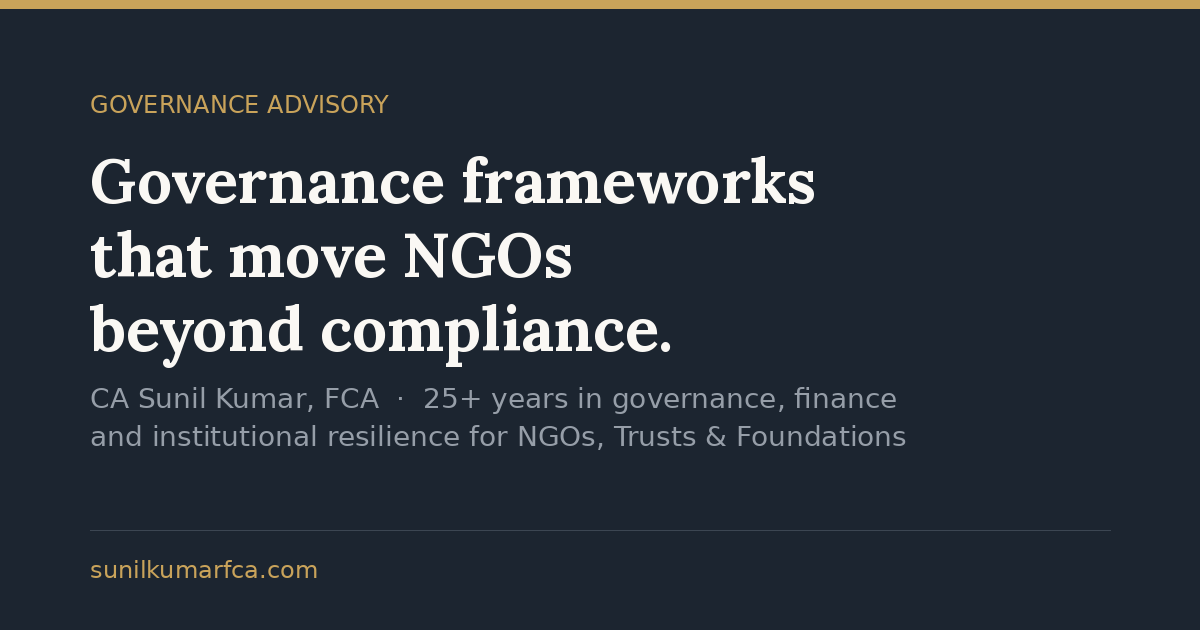
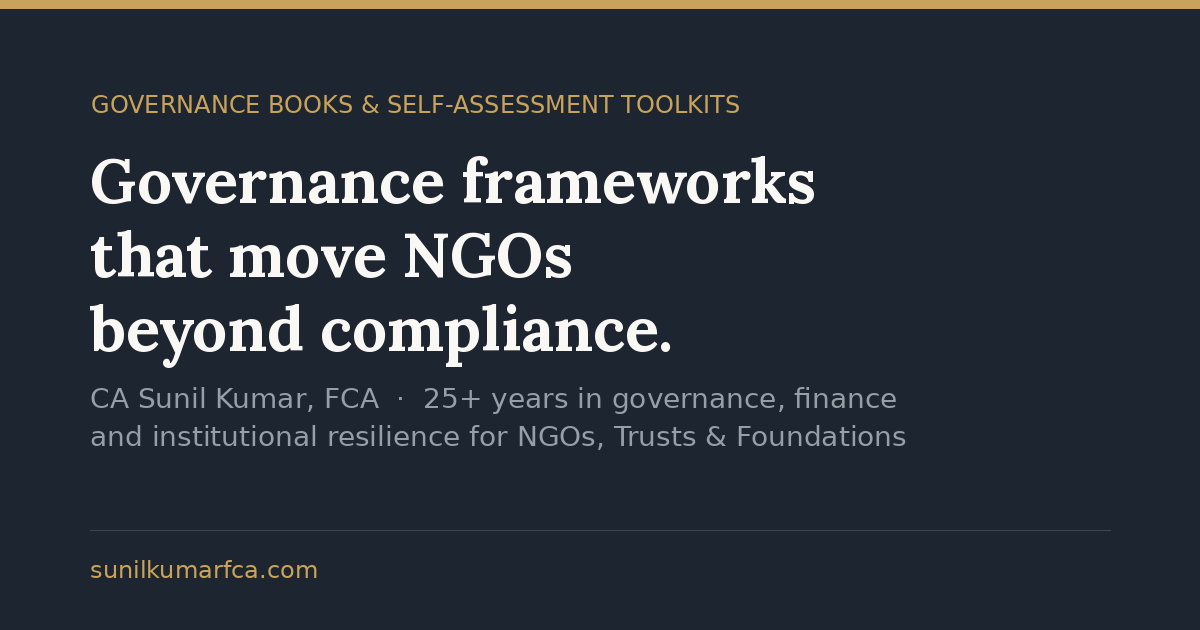
Drop advisory wording from link preview and book page
The link-preview image label now reads 'Governance books & self-assessment
toolkits', and the Resilient Institution page describes the author as a
Chartered Accountant and author.

Claude-Session: https://claude.ai/code/session_01BWzQECqM8cnJbT3FUSVRgj

Changed region(s): [[0.0617, 0.1508, 0.6167, 0.181]]

diff --git a/read-the-resilient-institution.html b/read-the-resilient-institution.html
@@ -4246,7 +4246,7 @@ Long-Term Sustainability</p>
 </section>
 <section class="chapter" id="ch16-about-the-author">
 <h2>ABOUT THE AUTHOR</h2>
-<p>CA Sunil Kumar, FCA is a Chartered Accountant and governance advisor with more than 25 years' experience in financial due diligence, board advisory, and CFO-level governance for NGOs, Trusts, Foundations, and mission-driven organizations. His work centers on helping institutions move beyond baseline compliance toward genuine governance maturity, financial sustainability, and donor confidence.</p>
+<p>CA Sunil Kumar, FCA is a Chartered Accountant and author with more than 25 years' experience in financial due diligence, board advisory, and CFO-level governance for NGOs, Trusts, Foundations, and mission-driven organizations. His work centers on helping institutions move beyond baseline compliance toward genuine governance maturity, financial sustainability, and donor confidence.</p>
 <p>He is the author of many books on Governance, Strategic Finance, Compliance, etc., and the creator of the governance framework — a set of evidence-based maturity assessments, executive guides, and boardroom tools used by CEOs, CFOs, Boards, and governance professionals across the social sector.</p>
 <p>Website: sunilkumarfca.com | Email: sunil@sunilkumarfca.com</p>
 <p>Website: www.sunilkumarfca.com</p>
